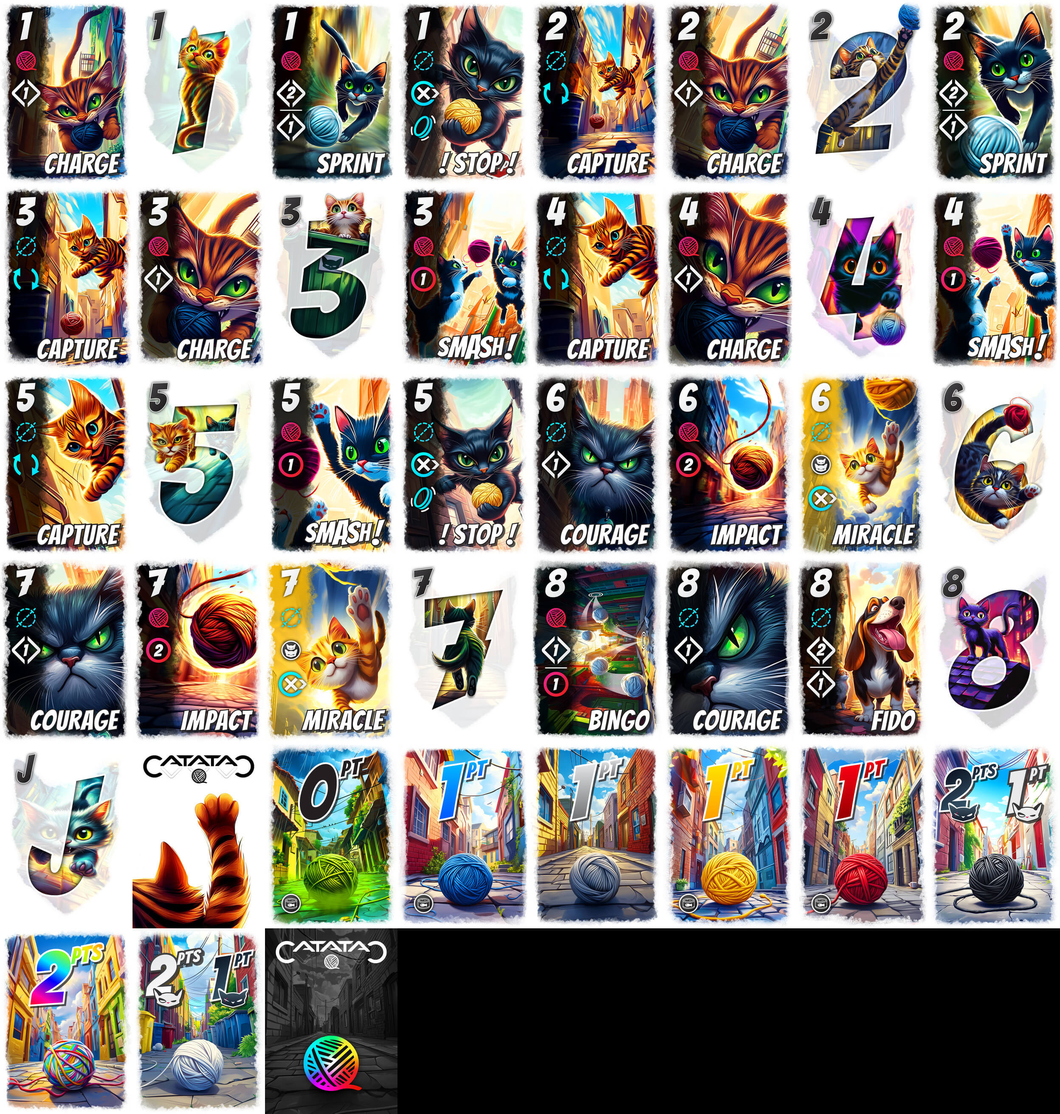
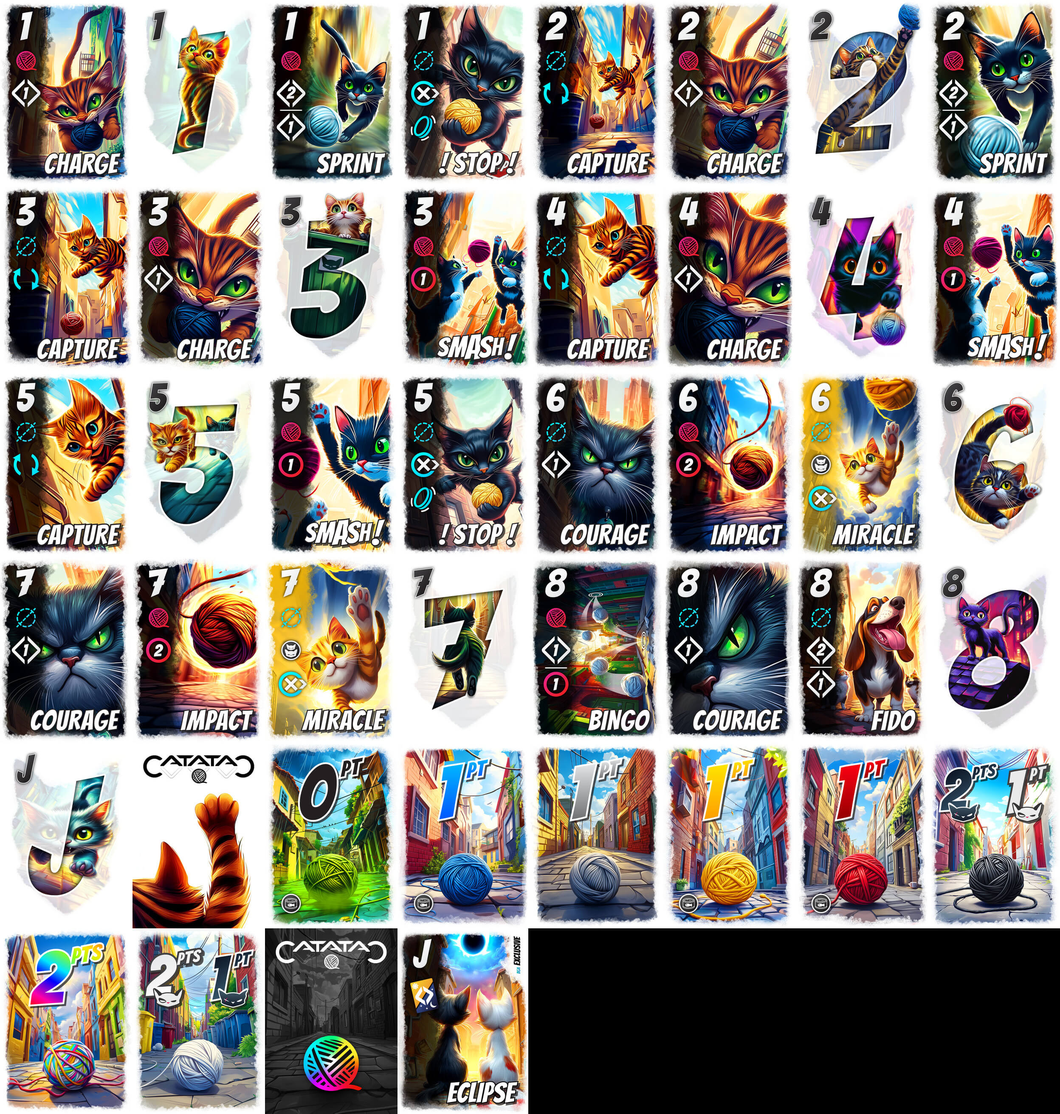
Add joker exclusive card

Changed region(s): [[0.375, 0.8341, 0.5, 1.0]]

diff --git a/catatac.js b/catatac.js
@@ -82,6 +82,7 @@ define([
       this.updateHandCards();
       this.setupMeeples();
       this.setupDiscardModal();
+      this.updateBoardSide();
       this.inherited(arguments);
     },
 
@@ -129,6 +130,10 @@ define([
 </svg>
 `
       );
+    },
+
+    updateBoardSide() {
+      $('catatac-board-background').dataset.side = this.gamedatas.flippedBoard ? 'night' : 'day';
     },
 
     // Generic automatic updating of infos
@@ -282,12 +287,13 @@ define([
     notif_refreshUI(args) {
       debug('Notif: refreshing UI', args);
 
-      ['meeples', 'players', 'cards', 'tiles'].forEach((value) => {
+      ['meeples', 'players', 'cards', 'flippedBoard'].forEach((value) => {
         this.gamedatas[value] = args.datas[value];
       });
       this.setupCards();
       this.setupMeeples();
       this.updatePlayersCounters();
+      this.updateBoardSide();
     },
 
     notif_refreshHand(args) {

diff --git a/modules/css/variables.scss b/modules/css/variables.scss
@@ -6,4 +6,4 @@ $cardTypes: "1-Charge" "1-Basic" "1-Sprint" "1-Stop" "2-Capture" "2-Charge" "2-B
   "3-Basic" "3-Smash" "4-Capture" "4-Charge" "4-Basic" "4-Smash" "5-Capture" "5-Basic" "5-Smash" "5-Stop" "6-Courage"
   "6-Impact" "6-Miracle" "6-Basic" "7-Courage" "7-Impact" "7-Miracle" "7-Basic" "8-Bingo" "8-Courage" "8-Fido" "8-Basic"
   "0-Joker" "Back" "Points-Green-0" "Points-Blue-1" "Points-Grey-1" "Points-Yellow-1" "Points-Red-1" "Points-Black"
-  "Points-Multi-2" "Points-White" "Points-Back";
+  "Points-Multi-2" "Points-White" "Points-Back" "0-JokerExclusive";

diff --git a/catatac.css b/catatac.css
@@ -450,6 +450,9 @@
   .catatac-card[data-type="Points-Back"] .catatac-card-wrapper {
     background-position-x: 28.5714285714%;
     background-position-y: 100%; }
+  .catatac-card[data-type="0-JokerExclusive"] .catatac-card-wrapper {
+    background-position-x: 42.8571428571%;
+    background-position-y: 100%; }
   .catatac-card.fake-card .catatac-card-wrapper {
     background-position: 14.2857142857% 80%; }
   .catatac-card.fake-card.points .catatac-card-wrapper {

diff --git a/modules/js/Cards.js b/modules/js/Cards.js
@@ -148,6 +148,11 @@ define(['dojo', 'dojo/_base/declare'], (dojo, declare) => {
     async notif_discardCard(args) {
       debug('Notif: discarding card', args);
       await this.discardCard(args.card, args.player_id);
+
+      if (args.flippedBoard !== undefined) {
+        this.gamedatas.flippedBoard = args.flippedBoard;
+        this.updateBoardSide();
+      }
     },
 
     async notif_discardCardTeammate(args) {

diff --git a/modules/php/Core/Notifications.php b/modules/php/Core/Notifications.php
@@ -14,16 +14,20 @@ use Bga\Games\Catatac\Models\Tile;
 
 class Notifications
 {
-  public static function playCard(Player $player, Card $card, int $n, bool $isPair)
+  public static function playCard(Player $player, Card $card, int $n, bool $isPair, bool $changeSide)
   {
     $msg = $isPair ?
       clienttranslate('${teamIcon}${player_name} plays a ${card_name}, making a pair!') :
       clienttranslate('${teamIcon}${player_name} plays a ${card_name}');
 
-    self::notifyAll('discardCard', $msg, [
+    $data = [
       'player' => $player,
       'card' => $card,
-    ]);
+    ];
+    if ($changeSide) {
+      $data['flippedBoard'] = Globals::getFlippedBoard();
+    }
+    self::notifyAll('discardCard', $msg, $data);
   }
 
   public static function playCardSave(Player $player, Player $player2, Card $card, int $n, bool $isPair)
@@ -203,6 +207,7 @@ class Notifications
       'players' => $datas['players'],
       'cards' => $datas['cards'],
       'meeples' => $datas['meeples'],
+      'flippedBoard' => $datas['flippedBoard'],
     ];
 
     foreach ($fDatas['players'] as &$player) {

diff --git a/modules/php/Actions/ChooseCard.php b/modules/php/Actions/ChooseCard.php
@@ -2,6 +2,7 @@
 
 namespace Bga\Games\Catatac\Actions;
 
+use Bga\Games\Catatac\Core\Globals;
 use Bga\Games\Catatac\Core\Notifications;
 use Bga\Games\Catatac\Managers\Cards;
 use Bga\Games\Catatac\Managers\Meeples;
@@ -77,6 +78,12 @@ class ChooseCard extends \Bga\Games\Catatac\Models\Action
       ]);
     }
 
-    Notifications::playCard($player, $card, $n, $isPair);
+    $changeSide = false;
+    if ($card->getType() == "0-JokerExclusive") {
+      $flipped = Globals::getFlippedBoard();
+      Globals::setFlippedBoard(!$flipped);
+      $changeSide = true;
+    }
+    Notifications::playCard($player, $card, $n, $isPair, $changeSide);
   }
 }

diff --git a/modules/php/Game.php b/modules/php/Game.php
@@ -80,6 +80,7 @@ class Game extends \Table
             'pointsDeckCount' => Cards::getPointsCardsLeft(),
             'ownedPointsCards' => Cards::getOwnPointsCardsCounts(),
             'meeples' => Meeples::getUiData(),
+            'flippedBoard' => Globals::getFlippedBoard(),
         ];
 
         return $datas;

diff --git a/modules/php/constants.inc.php b/modules/php/constants.inc.php
@@ -100,6 +100,7 @@ const MIRACLE = 'Miracle';
 const BINGO = 'Bingo';
 const FIDO = 'Fido';
 const JOKER = 'Joker';
+const JOKER_EXCLUSIVE = 'JokerExclusive';
 
 
 const WHITE_HIDEOUT = 0;

diff --git a/modules/php/Core/Globals.php b/modules/php/Core/Globals.php
@@ -24,6 +24,8 @@ class Globals extends DB_Manager
     'turnOrder' => 'obj',
     'skippedPlayers' => 'obj',
 
+    'flippedBoard' => 'bool',
+
     // Game options
   ];
 

diff --git a/modules/php/Managers/Cards.php b/modules/php/Managers/Cards.php
@@ -88,6 +88,7 @@ class Cards extends CachedPieces
     [8, BASIC, 4],
 
     [0, JOKER, 2],
+    [0, JOKER_EXCLUSIVE, 1],
   ];
 
   public static $baseGamePointsDeck = [

diff --git a/modules/php/Models/Cards/JokerExclusive.php b/modules/php/Models/Cards/JokerExclusive.php
@@ -1,0 +1,7 @@
+<?php
+
+namespace Bga\Games\Catatac\Models\Cards;
+
+use Bga\Games\Catatac\Models\PawnCard;
+
+class JokerExclusive extends PawnCard {}
